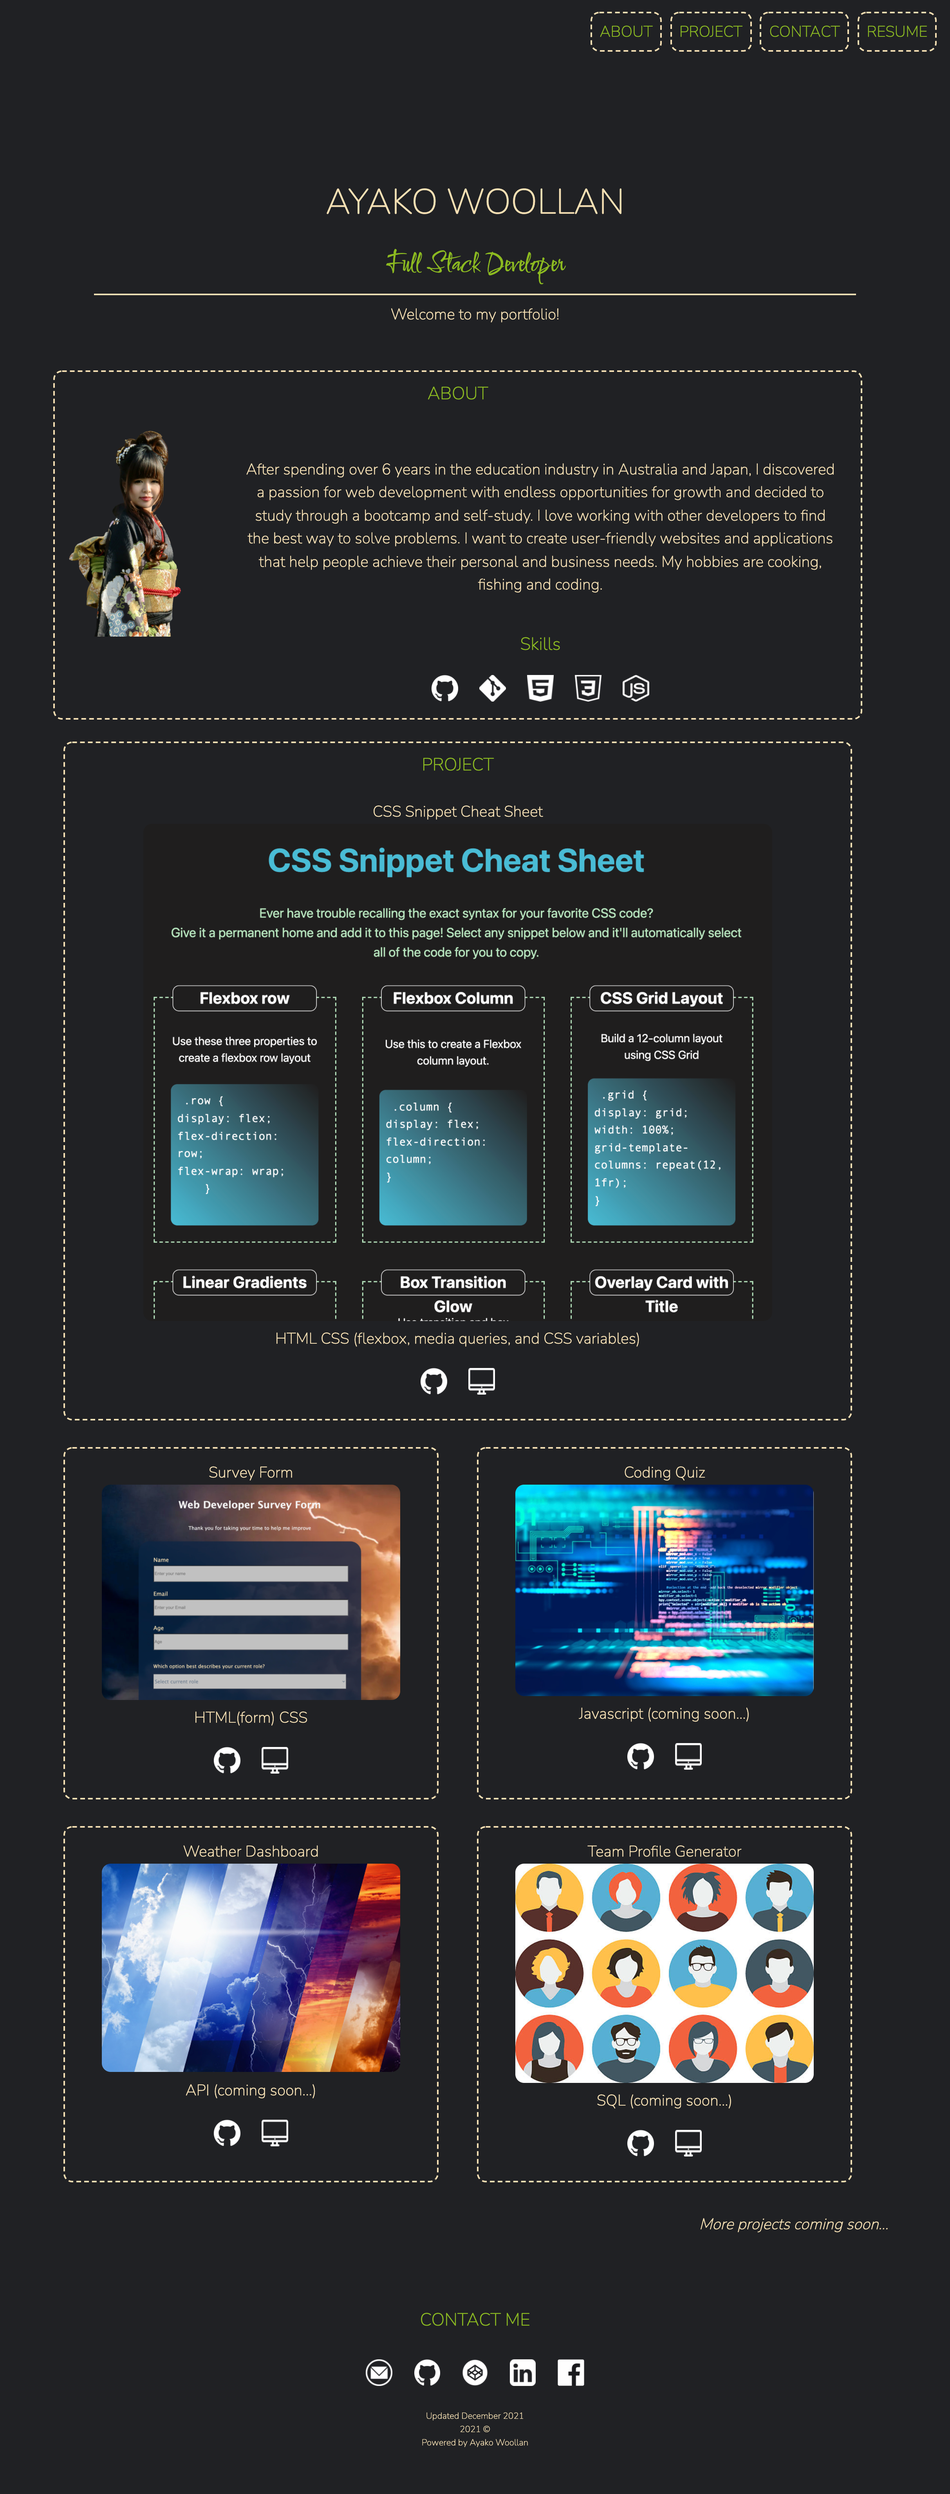
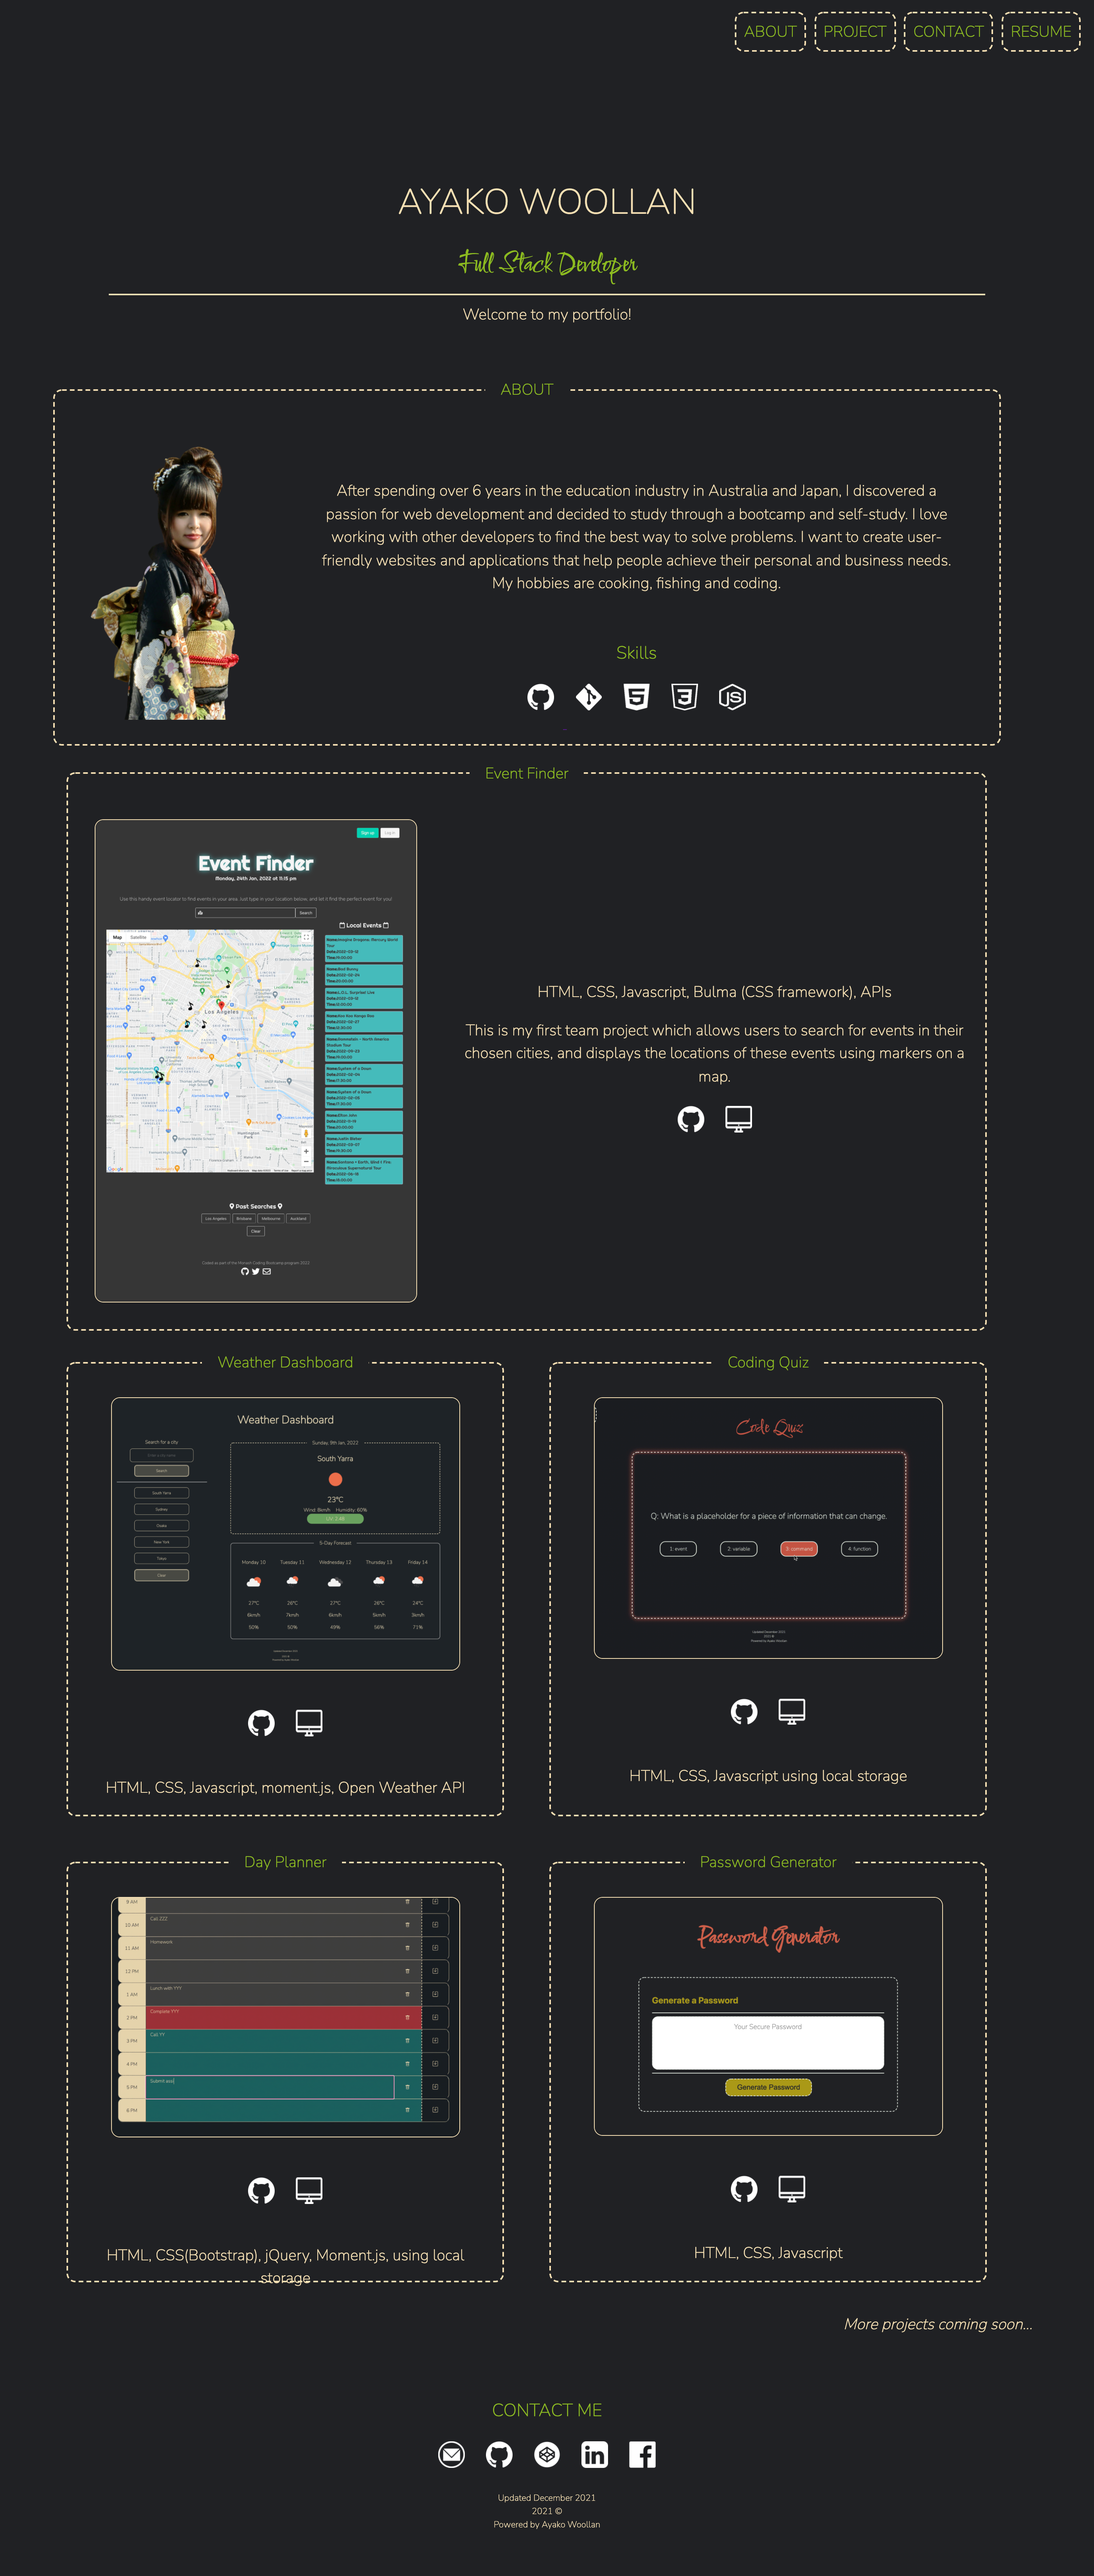
updating css, readme

diff --git a/index.html b/index.html
@@ -124,19 +124,29 @@
                 <img id="projectImgBig" src="./assets/screen-shots/event-finder.png" alt="A photo of Event Finder">
 
 
-                <ul>
-                    <li>
-                        <a href="https://github.com/ekubik/event-finder"><img class="myLinks"
-                                src="./assets/icons/gitHub.png" alt="icon link to the GitHub repository"></a>
-                    </li>
-                    <li>
-                        <a href="https://ekubik.github.io/event-finder/"><img class="myLinks"
-                                src="./assets/icons/PC.png" alt="icon link to the webpage"></a>
-                    </li>
+                <div id="project1-right">
 
-                </ul>
-                <p><strong>HTML, CSS, Vanilla Javascript, Bulma (CSS framework), APIs</strong></p>
-                <p>This is my first team project.</p>
+                    <div class="projectInfo">
+                        <p class="comment">HTML, CSS, Javascript, Bulma (CSS framework), APIs</p>
+
+                        <p class="explanation">This is my first team project which allows users to search for
+                            events in their chosen cities, and displays the locations of these events using markers on a
+                            map.</p>
+
+                    </div>
+                    <ul class="icons">
+                        <li>
+                            <a href="https://github.com/ekubik/event-finder"><img class="myLinks"
+                                    src="./assets/icons/gitHub.png" alt="icon link to the GitHub repository"></a>
+                        </li>
+                        <li>
+                            <a href="https://ekubik.github.io/event-finder/"><img class="myLinks"
+                                    src="./assets/icons/PC.png" alt="icon link to the webpage"></a>
+                        </li>
+                    </ul>
+
+                </div>
+
             </fieldset>
 
 
@@ -158,7 +168,7 @@
                         </li>
 
                     </ul>
-                    <p>HTML, CSS, Javascript, moment.js, Open Weather API</p>
+                    <p class="comment">HTML, CSS, Javascript, moment.js, Open Weather API</p>
 
                 </fieldset>
                 <fieldset id="project3" class="projectCard">
@@ -177,7 +187,7 @@
                         </li>
 
                     </ul>
-                    <p>Javascript (coming soon...)</p>
+                    <p class="comment">HTML, CSS, Javascript using local storage</p>
 
                 </fieldset>
 
@@ -187,20 +197,17 @@
                     </legend>
                     <img class="projectImg" src="./assets/screen-shots/dayPlanner.gif"
                         alt="An animation of Day Planner">
-
                     <ul>
                         <li>
-                            <a href="https://github.com/ayacomputer"><img class="myLinks"
+                            <a href="https://github.com/ayacomputer/05-Day-Planner"><img class="myLinks"
                                     src="./assets/icons/gitHub.png" alt="GitHub icon"></a>
                         </li>
                         <li>
-                            <a href="https://github.com/ayacomputer"><img class="myLinks" src="./assets/icons/PC.png"
-                                    alt="PC icon"></a>
+                            <a href="https://ayacomputer.github.io/05-Day-Planner/"><img class="myLinks"
+                                    src="./assets/icons/PC.png" alt="PC icon"></a>
                         </li>
-
-
                     </ul>
-                    <p><strong>Local storage</strong></p>
+                    <p class="comment">HTML, CSS(Bootstrap), jQuery, Moment.js, using local storage</p>
                 </fieldset>
 
                 <fieldset id="project5" class="projectCard">
@@ -219,32 +226,14 @@
                                     alt="PC icon"></a>
                         </li>
                     </ul>
-                    <p><Strong>HTML, CSS, Javascript</Strong></p>
-
+                    <p class="comment">HTML, CSS, Javascript</p>
                 </fieldset>
-
-
-
-
             </div>
-
-
-
         </section>
-
-
-
-
-
-
-
         <p class="andMore">More projects coming soon...</p>
     </main>
-
-
-
-
 </body>
+
 <footer>
     <section id="myContact">
         <h3 class="contactMe">CONTACT ME</h3>
@@ -273,10 +262,7 @@
                 <a href="https://www.facebook.com/ayako.woollan"><img class="myLinks" src="./assets/icons/Facebook.png"
                         alt="Facebook icon"></a>
             </li>
-
-
         </ul>
-
     </section>
 
 

diff --git a/assets/css/style.css b/assets/css/style.css
@@ -204,29 +204,41 @@ li {
 }
 
 .projectImg {
+    margin:1em;
     width:80%;
-    height: 65%;
+    height: 60%;
     border: var(--secondBorder);
     object-fit:cover;
     object-position: top;
     border-radius: var(--borderRadius);
 }
+
+#project1 {
+    margin: 0 auto;
+    width: 95%;
+    display: flex;
+    flex-direction: row;
+    justify-content: center;
+    align-items: center;
+}
 #projectImgBig {
-    width: 80%;
-    height: 50%;
-    object-fit:cover;
-    object-position: top;
+    margin: 3rem;
+    width: 35%;
+    border: var(--secondBorder);
     border-radius: var(--borderRadius);
 }
 
-#myProjects {
-    display:flex;
+#project1-right {
+    display: flex;
+    flex-direction: column;
     justify-content: center;
-    flex-wrap: wrap;
+    align-items: center;
+    margin: 2rem;
 }
-#project1 {
-    width: 95%;
-}
+
+
+
+
 
 
 .containerBody {
@@ -236,6 +248,7 @@ li {
     justify-content: space-around;
 
 }
+
 .projectCard {
     margin: 1.5rem;
     border:var(--primeBorder);
@@ -248,6 +261,9 @@ li {
     transition: all 0.5s ease-in-out;
 }
 
+.comment {
+    margin: 1em;
+}
 .andMore {
    font-style:italic;
    text-align: right;
@@ -296,6 +312,15 @@ li {
     width:100%;
     }
 
+    #project1 {
+        font-size:1rem;
+        margin: 0 auto;
+        flex-direction: column;
+        justify-content: center;
+    }
+    #projectImgBig { 
+        margin: 0 auto;
+    }
     .profileCard {
         flex-direction: column;
         justify-content: space-between;
